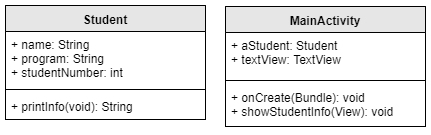
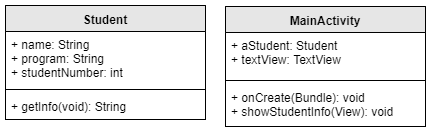
fixed week 1 uml example and added gif of app

Changed region(s): [[0.0302, 0.7407, 0.3318, 0.8593]]

diff --git a/Week1/Content.md b/Week1/Content.md
@@ -230,9 +230,13 @@ However, instead of having a `main` method associated with them as in the exampl
 
 Of course, Android Studio allows for you to create custom classes that depict something tangible, like the `Student` one as well. However throughout an app you will see classes that take many other shapes. All runnable code you write for your app will be contained inside a method of some kind, which is in turn containde inside a class.
 
-These classes are often depicted in what is called an UML diagram. They are helpful because they give a quick overview of what classes, variables and methods are present in the program's architecture. In the image below, we can see the `Student` model class with its fields and method and a hypothetical `MainActivity` containing a field to hold a `Student` object, a click handler for a button of some sort and of course `onCreate()`.
+Imagine a super simple app that contains information about one student and shows this information when the user clicks a button. In this particular app, there are two classes that interact. These classes are often depicted in what is called an UML diagram. They are helpful because they give a quick overview of what classes, variables and methods are present in the program's architecture. 
+
+![A gif depicting the app described above.](app-example.gif) 
 
 ![A UML diagram showing MainActivity and the Student model class](mini-uml-classes.png)
+
+In the image above, we can see the `Student` model class with its fields and method and a hypothetical `MainActivity` containing a field to hold a `Student` object, a click handler for a button of some sort and of course `onCreate()`. These kind of diagrams are often used to illustrate how classes relate to each other and what kind of content they contain.
 
 <a name="android-params"></a>
 

diff --git a/Week5/Content.md b/Week5/Content.md
@@ -70,11 +70,20 @@ When the callback `gotCategories()` is performed, we can now be sure that the ap
 
 To do this communication between Activity classes and other classes effectively, we can make use of the `interface` functionality of the Java programming language.
 
+<a name="interface-syntax"></a>
+
+### Interface syntax
+
+...
 
 <a name="practice"></a>
 
 ## Practice
 ...
+
+Activity en Java class simuleren? Interface ook gebruiken voor multiple inheritance of alleen callback achtig?
+
+Zelf interface laten schrijven en extend etc.
 
 <a name="practice"></a>
 
